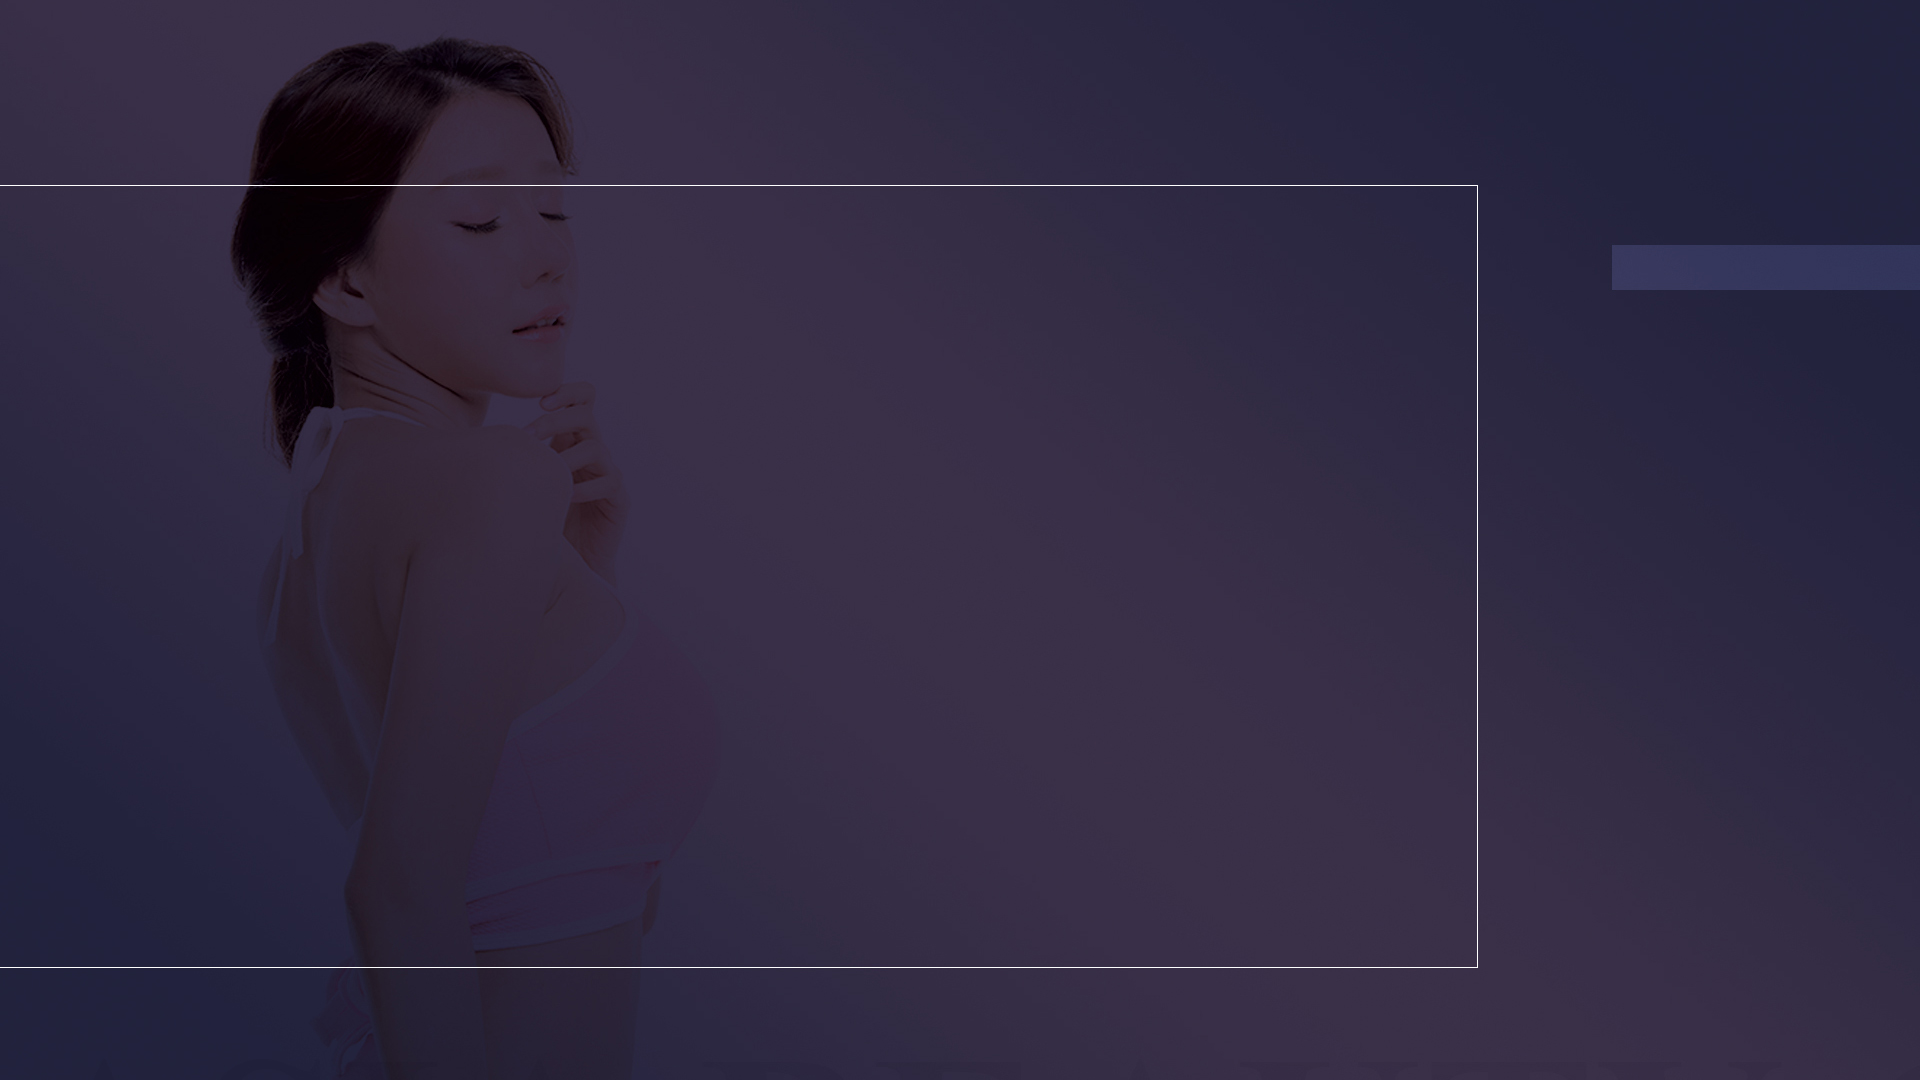
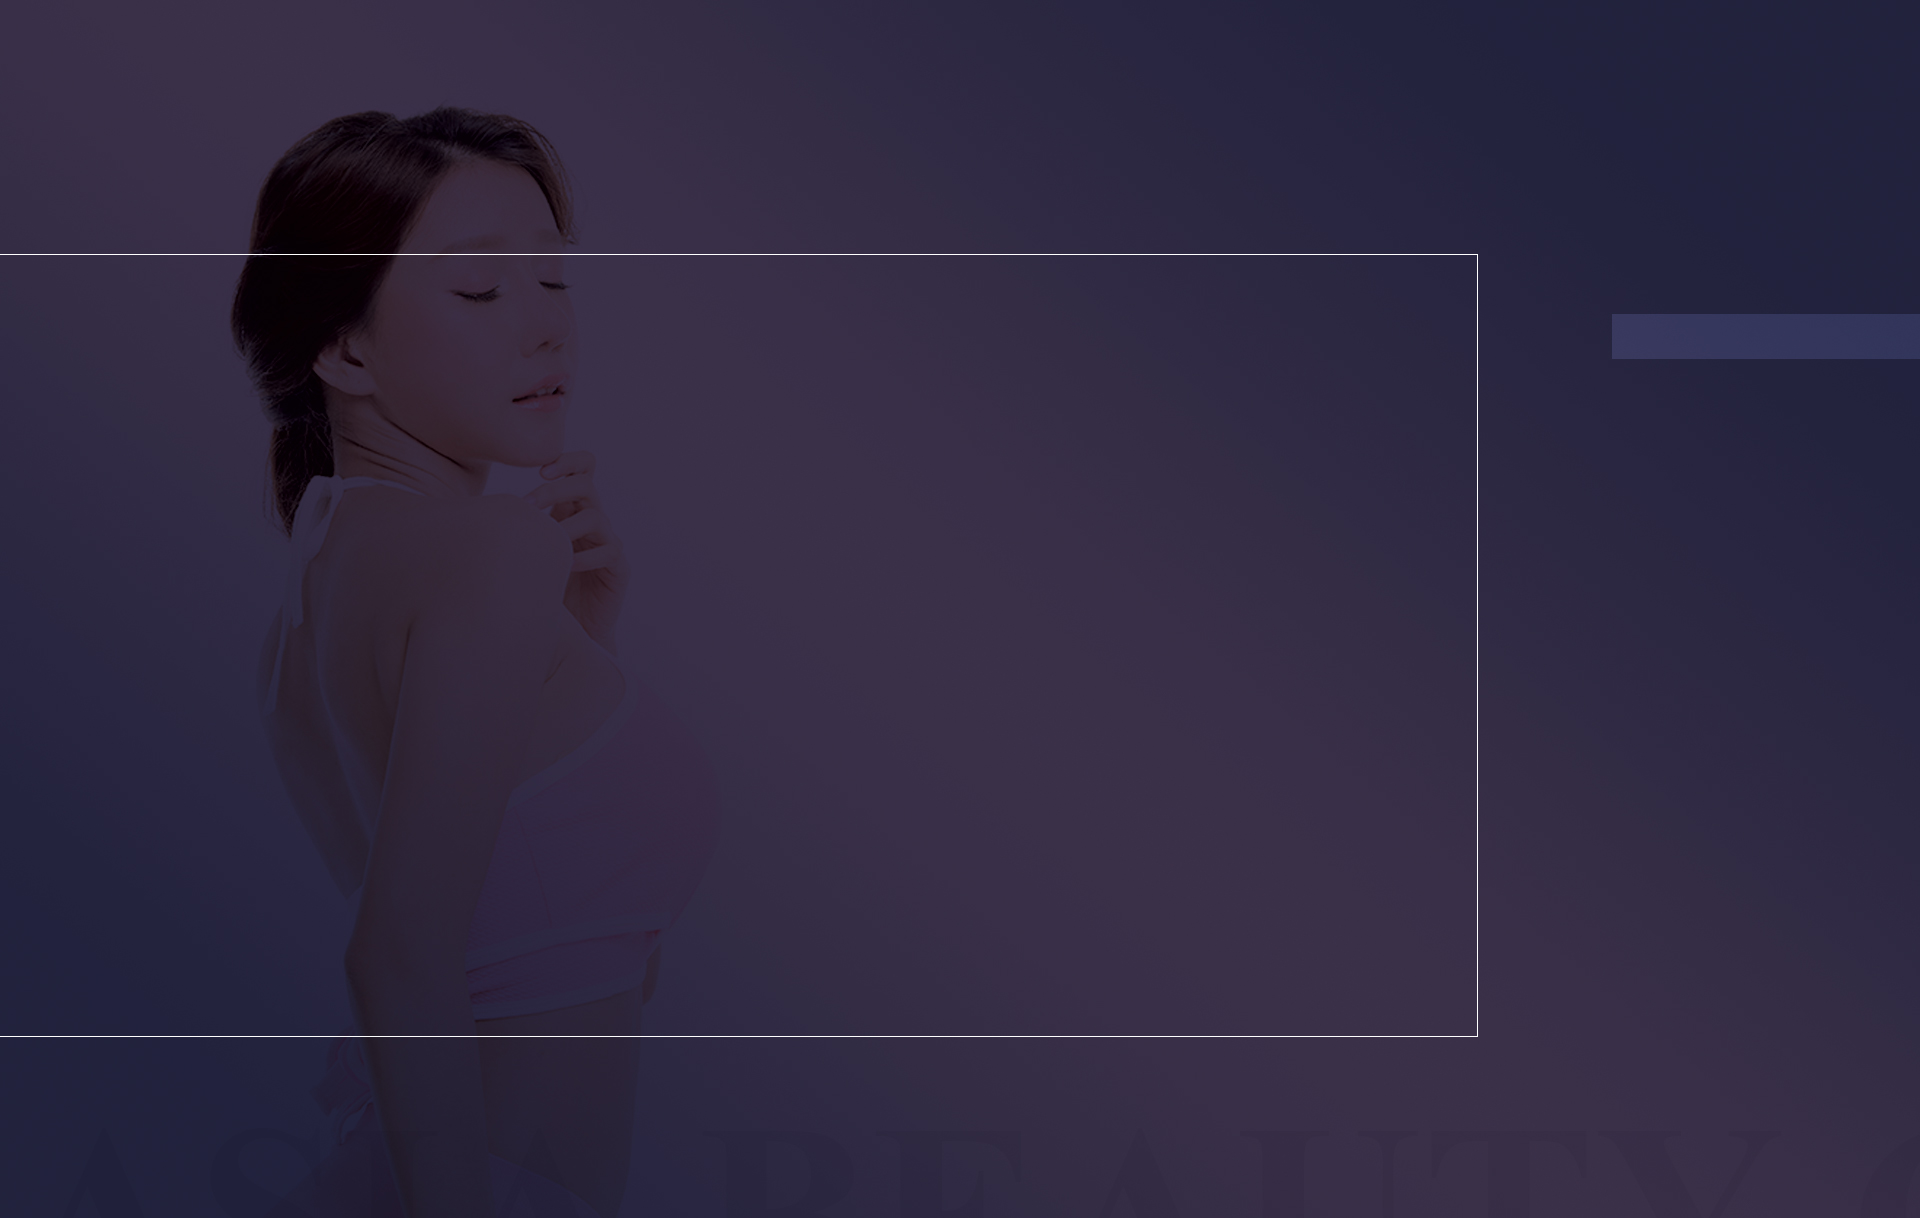
finish breast-01.html for pc

diff --git a/abc/breast/breast-01.html b/abc/breast/breast-01.html
@@ -289,7 +289,7 @@
     </nav>
 
     <div class="d-flex">
-    <div class="sidebar sidebar-dark bg-white">
+    <div class="sidebar sidebar-dark bg-white border-right">
             <ul class="list-unstyled">
                 <li class="text-center d-none d-sm-none d-md-block d-lg-block">
                     <a href="/index.html">
@@ -355,61 +355,129 @@
         </div>
     </section>
     
-    <section class="section fp-auto-height">
+    <section class="section breast-01-01 fp-auto-height-responsive">
         <div class="container-fluid">
-            <div class="row">
-                <div class="col-xl-12 p-0">
-                    <img class="w-100" src="../assets/img/breast/cont-01/01.jpg">
+            <div class="row d-flex">
+                <div class="col-12 col-xl-6 offset-xl-6 pt-5">
+                    <h4>Detail 5 ประการ<br>ของ BongBong Perfectionist </h4>
+                    <br>
+                    <br>
+                    <h1>Perfectionist of BREAST SURGERY</h1>
+                    <br>
+                    <i class="fa fa-minus text-primary"></i>
+                    <br>
+                    <br>
+                    <p>บงบงสร้างหน้าอกที่สวยงามขึ้นมาได้จาก Detail 5 ประการต่อไปนี้</p>
                 </div>
             </div>
         </div>
     </section>
         
-    <section class="section fp-auto-height">
-        <div class="container-fluid">
+    <section class="section breast-01-02 fp-auto-height-responsive">
+        <div class="container">
             <div class="row">
-                <div class="col-xl-12 p-0" style="-z-index: -1;">
-                   <img class="w-100" src="../assets/img/breast/cont-01/02.jpg"> 
+                <div class="col-12 col-xl-6 text-white pt-5">
+                    <h1>Perfectionist Detail <span>1</span></h1>
+                    <br>
+                    <br>
+                    <h3>สัมผัสที่นุ่มนวล<br>Soft Touch Feel</h3>
+                    <br>
+                    <i class="fa fa-minus text-primary"></i>
+                    <br>
+                    <br>
+                    <p>หน้าอกต้องมีความนุ่ม</p>
+                    <p>หน้าอกจะให้สัมผัสที่นุ่มได้ก็ต่อเมื่อซิลิโคนนุ่มๆ ถูกปกคลุมด้วยโครงสร้างของร่างกายที่นุ่มๆ และต้องมีแผลเป็นเกิดขึ้นน้อยที่สุด</p>
+                </div>
+                <div class="col-12 col-xl-6">
+                    <iframe width="1120" height="360" src="https://www.youtube.com/embed/siBLl9mM-vI?rel=0&amp;showinfo=0" frameborder="0" allow="autoplay; encrypted-media" allowfullscreen style="width: 100%;"></iframe>
                 </div>
             </div>
         </div>
     </section>
         
-    <section class="section fp-auto-height">
+    <section class="section breast-01-03 fp-auto-height-responsive">
         <div class="container-fluid">
             <div class="row">
-                <div class="col-xl-12 p-0">
-                    <img class="w-100" src="../assets/img/breast/cont-01/03.jpg">
+                <div class="col-12 col-xl-5 offset-7 text-white pt-5">
+                    <h1>Perfectionist Detail <span>2</span></h1>
+                    <br>
+                    <br>
+                    <h3>ความสมดุลของด้านซ้ายขวา และสัดส่วนในอุดมคติ<br>Well Balance and ideal Proportion</h3>
+                    <br>
+                    <i class="fa fa-minus text-primary"></i>
+                    <br>
+                    <br>
+                    <p>เนื่องจากความงดงามเป็นเรื่องของมโนคติ</p>
+                    <p>การหาความสมดุลและสัดส่วนทางอุดมคติที่เหมาะสมกับร่างกายที่สุดจึงเป็นเรื่องสำคัญ</p>
                 </div>
             </div>
         </div>
     </section>
         
-    <section class="section fp-auto-height">
+    <section class="section breast-01-04 fp-auto-height-responsive">
         <div class="container-fluid">
             <div class="row">
-                <div class="col-xl-12 p-0">
-                    <img class="w-100" src="../assets/img/breast/cont-01/04.jpg">
+                <div class="col-12 pt-5 text-center">
+                    <h1>Perfectionist Detail <span>3</span></h1>
+                    <br>
+                    <br>
+                    <h3>ขนาดและความสมมาตรตามความต้องการของลูกค้า<br>Size and Symmentry</h3>
+                    <br>
+                    <i class="fa fa-minus text-primary"></i>
+                    <br>
+                    <br>
+                    <p>ในการผ่าตัดขยายหรือลดขนาดของเต้านมนั้น</p>
+                    <p>เรามุุ่งมั่นในการหาขนาดเต้านมที่ลูกค้าต้องการที่สุดให้ได้</p>
+                    <p>นอกจากนี้ ...</p>
+                    <p>หน้าอกของผู้หญิงทุกคน</p>
+                    <p>มีทรวงอกซึ่งประกอบขึ้นจากกระดูกหรือกระดูกอ่อน</p>
+                    <p>และมีกล้ามเนื้อและต่อมน้ำนมเจริญเติบโติยยู่ หน้าอกด้านซ้ายและด้านขวาจึงมีความไม่สมมาตรกันอยู่</p>
+                    <br>
+                    <p>แม้จะไม่สามารถทำให้หน้าอกมีความสมมาตรได้ทั้ง 100 %</p>
+                    <p>แต่เราก็พยายามสร้างผลลัพธ์ให้ใกล้เคียงกับความสมมาตรที่สุด</p>
+                    <p>ด้วยทุกวิธีการทางการแพทย์ที่เรามี</p>
                 </div>
             </div>
         </div>
     </section>
         
-    <section class="section fp-auto-height">
-        <div class="container-fluid">
+    <section class="section breast-01-05 fp-auto-height-responsive">
+        <div class="container">
             <div class="row">
-                <div class="col-xl-12 p-0">
-                    <img class="w-100" src="../assets/img/breast/cont-01/05.jpg">
+                <div class="col-12 col-xl-5 offset-xl-7 pt-5 ">
+                    <h1>Perfectionist Detail <span>4</span></h1>
+                    <br>
+                    <br>
+                    <h3>หน้าอกที่ดูเป็นธรรมชาติ<br>Natural Cleavage</h3>
+                    <br>
+                    <i class="fa fa-minus text-primary"></i>
+                    <br>
+                    <br>
+                    <p>ผู้หญิงส่วนใหญ่ปรารถนาที่จะมีร่องอกที่ชิดและลึก</p>
+                    <p>การศัลยกรรมหน้าอกแบบไฮบริดที่ถูกพัฒนาขึ้น ก้าวข้ามขีดจำกัดเรื่องร่องอกจากการทำศัลยกรรมด้วยซิลิโคนธรรมดา</p>
+                    <p>สร้างหน้าอกที่เป็นธรรมชาติขึ้นได้</p>
                 </div>
             </div>
         </div>
     </section>
         
-    <section class="section fp-auto-height">
-        <div class="container-fluid">
+    <section class="section breast-01-06 fp-auto-height-responsive">
+        <div class="container">
             <div class="row">
-                <div class="col-xl-12 p-0">
-                    <img class="w-100" src="../assets/img/breast/cont-01/06.jpg">
+                <div class="col-xl-6 p-0">
+                    <h1>Perfectionist Detail <span>5</span></h1>
+                    <br>
+                    <br>
+                    <h3>การเคลื่อนไหวแบบไดนามิค<br>Dynamic Movement</h3>
+                    <br>
+                    <i class="fa fa-minus text-primary"></i>
+                    <br>
+                    <br>
+                    <p>หน้าอกต้องสามารถเคลื่อนตัวได้ตามการเคลื่อนไหวของร่างกายในอิริยาบถต่างๆ</p>
+                    <p>และเมื่อเดินหรือวิ่งจะต้องรู้สึกได้ถึงจังหวะการเคลื่อนไหวนั้น</p>
+                </div>
+                <div class="col-xl-6">
+                    <iframe width="1120" height="360" src="https://www.youtube.com/embed/VGnqmtMoeKI?rel=0&amp;showinfo=0" frameborder="0" allow="autoplay; encrypted-media" allowfullscreen style="width: 100%;"></iframe>
                 </div>
             </div>
         </div>
@@ -497,7 +565,7 @@
     <script src="../assets/js/fullpage.extension.min.js"></script>
     <script src="../assets/js/scrolloverflow.min.js"></script>
     <script src="../assets/js/jquery.waypoint.js"></script>
-    <script src="../assets/js/parallax.js"></script>
+    <!--<script src="../assets/js/parallax.js"></script>-->
     
     <script>
         $(document).ready(function() {
@@ -550,8 +618,8 @@
                 controlArrows: true,
                 verticalCentered: true,
                 sectionsColor : ['#ccc', '#fff'],
-                paddingTop: '0',
-                paddingBottom: '0',
+                paddingTop: '10',
+                paddingBottom: '10',
                 fixedElements: '#header, .footer',
                 responsiveWidth: 1100,
                 responsiveHeight: 0,

diff --git a/abc/assets/css/head-img.css b/abc/assets/css/head-img.css
@@ -70,6 +70,44 @@
         -webkit-filter: brightness(1.1);*/
     }
     
+    /*for breast content 01*/
+    .breast-01-01{
+        background-image: url(../img/breast/cont-01/01.jpg);
+        background-size: cover;
+        background-position: center center;
+        background-repeat: no-repeat;
+    }
+    .breast-01-02{
+        background-image: url(../img/breast/cont-01/02.jpg);
+        background-size: cover;
+        background-position: center center;
+        background-repeat: no-repeat;
+    }
+    .breast-01-03{
+        background-image: url(../img/breast/cont-01/03.jpg);
+        background-size: cover;
+        background-position: center center;
+        background-repeat: no-repeat;
+    }
+    .breast-01-04{
+        background-image: url(../img/breast/cont-01/04.jpg);
+        background-size: cover;
+        background-position: center center;
+        background-repeat: no-repeat;
+    }
+    .breast-01-05{
+        background-image: url(../img/breast/cont-01/05.jpg);
+        background-size: cover;
+        background-position: center center;
+        background-repeat: no-repeat;
+    }
+    .breast-01-06{
+        background-image: url(../img/breast/cont-01/06.jpg);
+        background-size: cover;
+        background-position: center center;
+        background-repeat: no-repeat;
+    }
+    
     
 }
 
@@ -265,31 +303,7 @@
         background-repeat: no-repeat;
     }
     
-    /*for breast content 01*/
     
-    .breast-01-01, .breast-01-02, .breast-01-03, .breast-01-04, .breast-01-05, .breast-01-06, {
-        background-size: contain;
-        background-position: center center;
-        background-repeat: no-repeat;
-    }
-    .breast-01-01{
-        background-image: url(../img/breast/cont-01/01.jpg);
-    }
-    .breast-01-02{
-        background-image: url(../img/breast/cont-01/02.jpg);
-    }
-    .breast-01-03{
-        background-image: url(../img/breast/cont-01/03.jpg);
-    }
-    .breast-01-04{
-        background-image: url(../img/breast/cont-01/04.jpg);
-    }
-    .breast-01-05{
-        background-image: url(../img/breast/cont-01/05.jpg);
-    }
-    .breast-01-06{
-        background-image: url(../img/breast/cont-01/06.jpg);
-    }
 }
 
 
